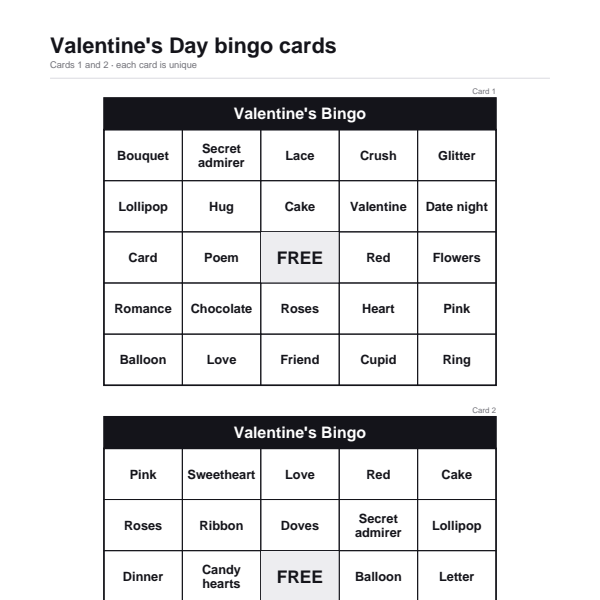
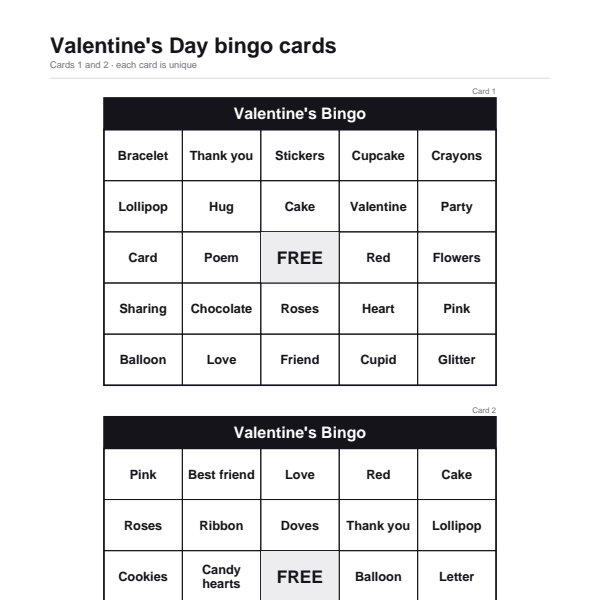
Saint-Valentin : bingo et mot mêlé adaptés à la classe (mots d'amitié au lieu de « kiss », « date night », « romance »…)
Claude-Session: https://claude.ai/code/session_01MthD8Tfd6RY7BsbSaPweGA

diff --git a/scripts/puzzles/batch_items.py b/scripts/puzzles/batch_items.py
@@ -268,9 +268,9 @@ WORD_SEARCHES = [
          intro="Fifteen Easter words in a 10 × 10 grid: bunny, egg, basket, chick, lamb, tulip, jellybean. It is designed for children aged about 5 to 8, so the words read only left to right or top to bottom and none is longer than nine letters. Slip it into an Easter basket or use it while the eggs are being hidden.",
          tip="Three-letter words like EGG and HOP are the trickiest to spot because they are so short: scan each row slowly for the first letter."),
     dict(slug="valentines-day-word-search", title="Valentine's Day word search", seo="Valentine's Day word search printable: free PDF with answers",
-         summary="Twenty Valentine's words, from cupid to secret admirer, in a 15 × 15 grid for ages 7 to 10. Four directions, answer key on the second page.",
+         summary="Twenty friendly Valentine's words, from cupid to thank you, in a 15 × 15 grid for ages 7 to 10. Four directions, answer key on the second page.",
          theme="valentines", difficulty="medium", age="kids", themes=["hearts", "love"], occasions=["valentines"], seed=413,
-         intro="Twenty Valentine's Day words in a 15 × 15 grid: heart, cupid, roses, chocolate, darling, admirer and more. It is pitched at children aged about 7 to 10, with words running across, down and diagonally, never backwards. A good filler for a class party or a card-making session in February.",
+         intro="Twenty Valentine's Day words in a 15 × 15 grid: heart, cupid, roses, chocolate, friend, sharing and more, with nothing romantic, so it suits a class party. It is pitched at children aged about 7 to 10, with words running across, down and diagonally, never backwards. A good filler for a class party or a card-making session in February.",
          tip="Find VALENTINE first: it is one of the longest words, and its letters overlap with several others in the list."),
     dict(slug="summer-word-search", title="Summer word search", seo="Summer word search printable: free PDF with answer key",
          summary="Twenty summer words, from sandcastle to fireflies, in a 15 × 15 grid for ages 9 to 12. Words run in four directions; answer key on page 2.",
@@ -364,9 +364,9 @@ BINGO = [
          intro="Easter bingo with twenty unique cards: thirty-six words such as bunny, egg hunt, jellybeans, daffodil and hot cross bun, with a FREE square in the middle of each card. The calling cards are on the last page. It suits an Easter party, a Sunday school class or a rainy Easter Monday with children from about 6.",
          tip="Use jellybeans as markers and let players keep what is on their card at the end of the game."),
     dict(slug="valentines-day-bingo", title="Valentine's Day bingo cards", seo="Valentine's Day bingo printable: 20 free bingo cards",
-         summary="Twenty unique Valentine's bingo cards with 36 words from cupid to secret admirer, plus cut-out calling cards. Two cards per page, FREE square in the centre.",
+         summary="Twenty unique Valentine's bingo cards with 36 classroom-friendly words from cupid to best friend, plus cut-out calling cards. Two cards per page, FREE square in the centre.",
          mode="words", theme="valentines", age="kids", themes=["hearts", "love"], occasions=["valentines"], seed=506,
-         intro="Valentine's Day bingo for a class party: twenty unique cards built from thirty-six words (heart, cupid, chocolate, teddy bear, secret admirer, be mine), each with a FREE centre square. The calling cards are on the last page, ready to cut out. Children from about 6 can play; it also works as an icebreaker for a grown-up party.",
+         intro="Valentine's Day bingo for a class party: twenty unique cards built from thirty-six words (heart, cupid, chocolate, teddy bear, best friend, be mine), all about friendship rather than romance, each with a FREE centre square. The calling cards are on the last page, ready to cut out. Children from about 6 can play; it also works as an icebreaker for a grown-up party.",
          tip="Candy hearts make the obvious markers, and 'four corners' is a quick pattern when you have many rounds to fit in."),
     dict(slug="classroom-bingo", title="Classroom bingo cards", seo="Classroom bingo printable: 20 free cards with school words",
          summary="Twenty unique classroom bingo cards with 36 school words, from pencil to principal, plus calling cards to cut out. Two cards per page, FREE centre square.",

diff --git a/scripts/puzzles/bingo.py b/scripts/puzzles/bingo.py
@@ -40,10 +40,10 @@ THEMES: dict[str, list[str]] = {
                "Bonnet", "Carrot", "Chocolate egg", "Daffodil", "Parade", "Marshmallow", "Hop", "Sunday",
                "Painted eggs", "Butterfly", "Duckling", "Rainbow", "Grass", "Candy", "Church", "Brunch", "Ham",
                "Cross", "Flowers", "Pastel", "Hot cross bun", "Rabbit", "Garden", "Bloom", "Picnic", "Ribbon"],
-    "valentines": ["Heart", "Love", "Cupid", "Roses", "Chocolate", "Card", "Arrow", "Hug", "Kiss", "Friend",
-                   "Sweetheart", "Flowers", "Pink", "Red", "Candy hearts", "Romance", "Valentine", "Secret admirer",
-                   "February", "Teddy bear", "Balloon", "Poem", "Date night", "Ribbon", "Lace", "Lollipop", "Crush",
-                   "Smile", "Doves", "Dinner", "Letter", "Bouquet", "Ring", "Cake", "Glitter", "Be mine"],
+    "valentines": ["Heart", "Love", "Cupid", "Roses", "Chocolate", "Card", "Arrow", "Hug", "Kindness", "Friend",
+                   "Best friend", "Flowers", "Pink", "Red", "Candy hearts", "Sharing", "Valentine", "Thank you",
+                   "February", "Teddy bear", "Balloon", "Poem", "Party", "Ribbon", "Stickers", "Lollipop", "Cupcake",
+                   "Smile", "Doves", "Cookies", "Letter", "Bracelet", "Glitter", "Cake", "Crayons", "Be mine"],
     "classroom": ["Pencil", "Book", "Desk", "Teacher", "Ruler", "Eraser", "Crayon", "Glue", "Paper", "Lunch box",
                   "School bus", "Recess", "Homework", "Backpack", "Scissors", "Notebook", "Whiteboard", "Marker",
                   "Calculator", "Globe", "Library", "Computer", "Clock", "Chair", "Map", "Folder", "Stapler", "Chalk",

diff --git a/scripts/puzzles/word_search.py b/scripts/puzzles/word_search.py
@@ -49,8 +49,8 @@ THEMES: dict[str, list[str]] = {
                      "Leaves", "Gratitude", "Football", "November"],
     "easter": ["Bunny", "Egg", "Basket", "Chick", "Lily", "Hunt", "Spring", "Candy", "Lamb", "Tulip", "Hop", "Nest",
                "Bonnet", "Jellybean", "Carrot"],
-    "valentines": ["Heart", "Love", "Cupid", "Roses", "Chocolate", "Card", "Arrow", "Hug", "Kiss", "Friend",
-                   "Darling", "Flowers", "Pink", "Red", "Candy", "Romance", "Valentine", "Secret", "Admirer",
+    "valentines": ["Heart", "Love", "Cupid", "Roses", "Chocolate", "Card", "Arrow", "Hug", "Kind", "Friend",
+                   "Sharing", "Flowers", "Pink", "Red", "Candy", "Thank you", "Valentine", "Sweet", "Smile",
                    "February"],
     "summer": ["Beach", "Sunshine", "Swimming", "Popsicle", "Sandcastle", "Vacation", "Lemonade", "Sunglasses",
                "Picnic", "Camping", "Watermelon", "Flip flops", "Surfing", "Barbecue", "Pool", "Seashell", "Hammock",

diff --git a/src/content/puzzles/valentines-day-bingo.md b/src/content/puzzles/valentines-day-bingo.md
@@ -1,7 +1,7 @@
 ---
 title: "Valentine's Day bingo cards"
 type: "bingo"
-summary: "Twenty unique Valentine's bingo cards with 36 words from cupid to secret admirer, plus cut-out calling cards. Two cards per page, FREE square in the centre."
+summary: "Twenty unique Valentine's bingo cards with 36 classroom-friendly words from cupid to best friend, plus cut-out calling cards. Two cards per page, FREE square in the centre."
 age_band: "kids"
 themes: ["hearts", "love"]
 occasions: ["valentines"]
@@ -23,7 +23,7 @@ seo_title: "Valentine's Day bingo printable: 20 free bingo cards"
 <!-- generated by scripts/puzzles/build_batch.py -->
 ## About these bingo cards
 
-Valentine's Day bingo for a class party: twenty unique cards built from thirty-six words (heart, cupid, chocolate, teddy bear, secret admirer, be mine), each with a FREE centre square. The calling cards are on the last page, ready to cut out. Children from about 6 can play; it also works as an icebreaker for a grown-up party.
+Valentine's Day bingo for a class party: twenty unique cards built from thirty-six words (heart, cupid, chocolate, teddy bear, best friend, be mine), all about friendship rather than romance, each with a FREE centre square. The calling cards are on the last page, ready to cut out. Children from about 6 can play; it also works as an icebreaker for a grown-up party.
 
 ## What's in the PDF
 

diff --git a/src/content/puzzles/valentines-day-word-search.md b/src/content/puzzles/valentines-day-word-search.md
@@ -1,7 +1,7 @@
 ---
 title: "Valentine's Day word search"
 type: "word-search"
-summary: "Twenty Valentine's words, from cupid to secret admirer, in a 15 × 15 grid for ages 7 to 10. Four directions, answer key on the second page."
+summary: "Twenty friendly Valentine's words, from cupid to thank you, in a 15 × 15 grid for ages 7 to 10. Four directions, answer key on the second page."
 difficulty: "medium"
 age_band: "kids"
 themes: ["hearts", "love"]
@@ -24,7 +24,7 @@ seo_title: "Valentine's Day word search printable: free PDF with answers"
 <!-- generated by scripts/puzzles/build_batch.py -->
 ## About this word search
 
-Twenty Valentine's Day words in a 15 × 15 grid: heart, cupid, roses, chocolate, darling, admirer and more. It is pitched at children aged about 7 to 10, with words running across, down and diagonally, never backwards. A good filler for a class party or a card-making session in February.
+Twenty Valentine's Day words in a 15 × 15 grid: heart, cupid, roses, chocolate, friend, sharing and more, with nothing romantic, so it suits a class party. It is pitched at children aged about 7 to 10, with words running across, down and diagonally, never backwards. A good filler for a class party or a card-making session in February.
 
 ## What's in the PDF
 
